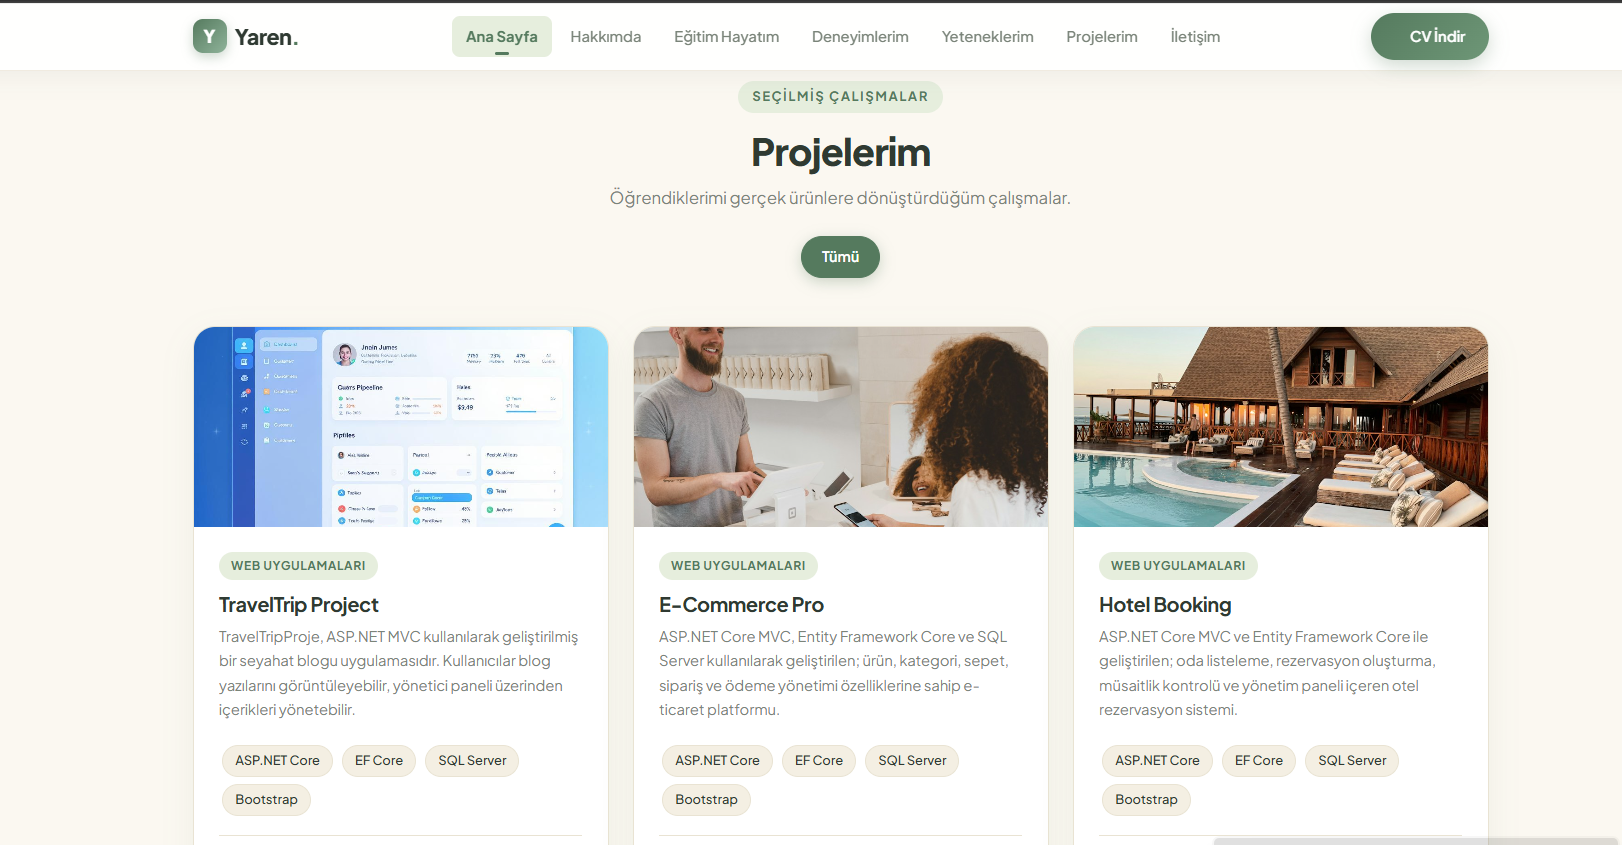
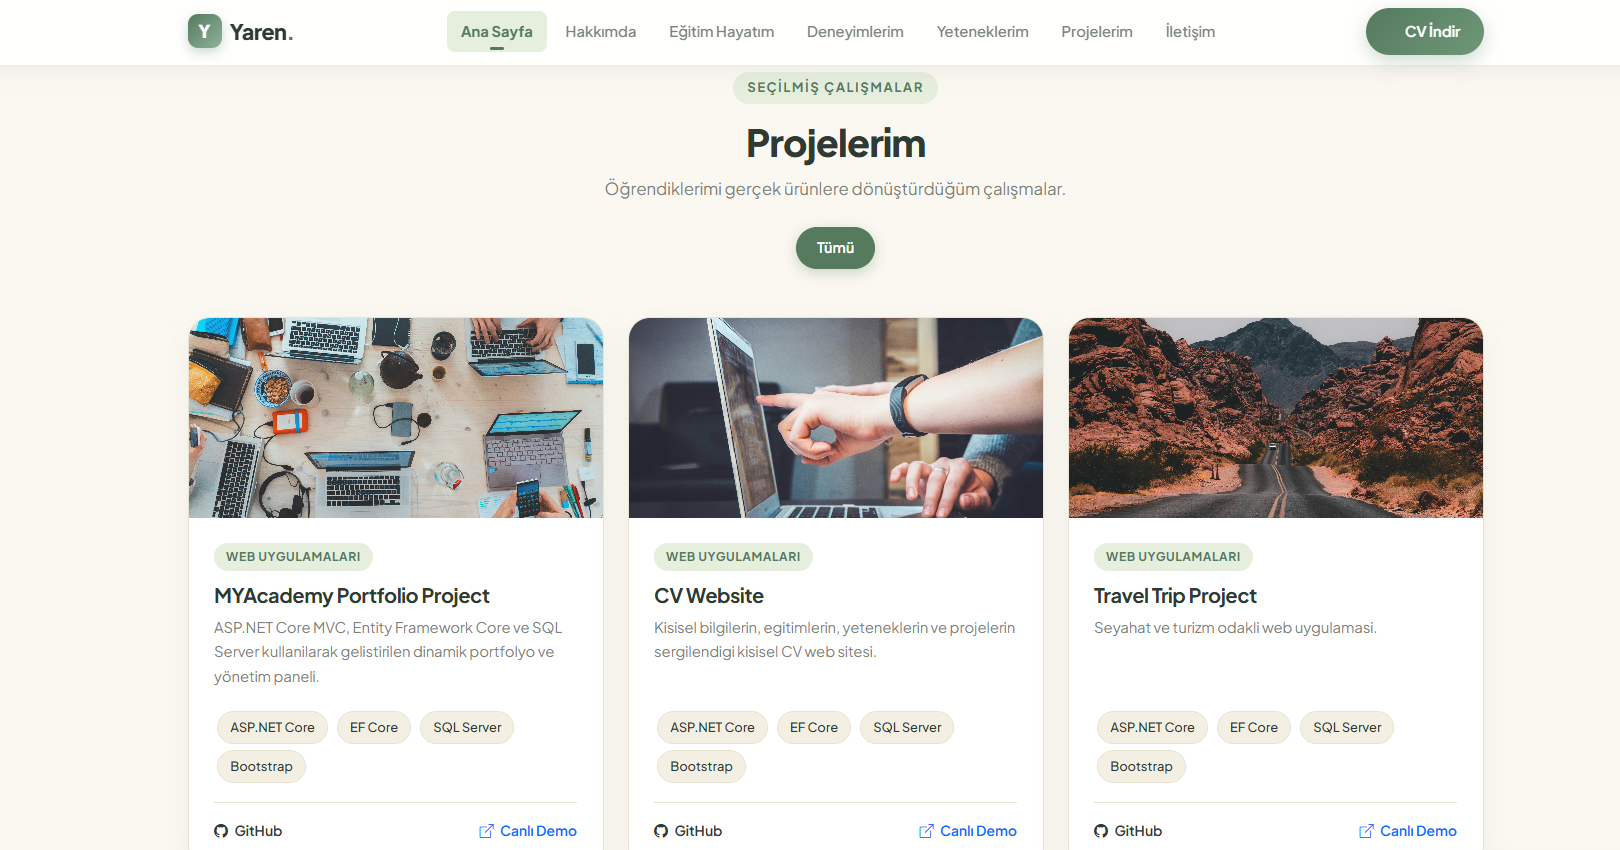
Initial commit: complete MYAcademy portfolio project

diff --git a/MYAcademy_PortfolioProject/Areas/Admin/Controllers/MessageController.cs b/MYAcademy_PortfolioProject/Areas/Admin/Controllers/MessageController.cs
@@ -14,10 +14,19 @@ namespace MYAcademy_PortfolioProject.Areas.Admin.Controllers
             _context = context;
         }
 
-        public IActionResult MessageList()
+        public IActionResult MessageList(string search)
         {
-            var values = _context.Messages.ToList();
-            return View(values);
+            var values = _context.Messages.AsQueryable();
+
+            if (!string.IsNullOrEmpty(search))
+            {
+                values = values.Where(x =>
+                    x.NameSurname.Contains(search) ||
+                    x.Email.Contains(search) ||
+                    x.Subject.Contains(search));
+            }
+
+            return View(values.ToList());
         }
 
 
